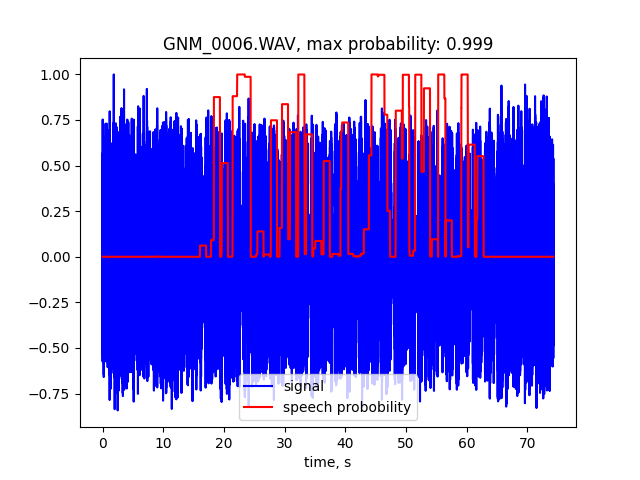
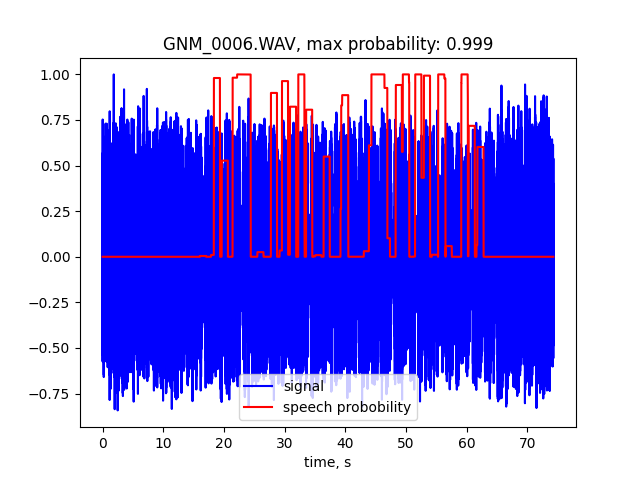
[f] fix a

diff --git a/vad.py b/vad.py
@@ -23,7 +23,7 @@ class VAD():
         self.filename = wave_file
         pass
 
-    def sigmoid_by_thres(self,x, thres = 0.7855, dx = 0.791 - 0.78):
+    def sigmoid_by_thres(self,x, thres = 0.7855, dx = 0.791 - 0.7855):
         return 1 / (1 + np.exp(-(x - thres)/dx))
     
     
